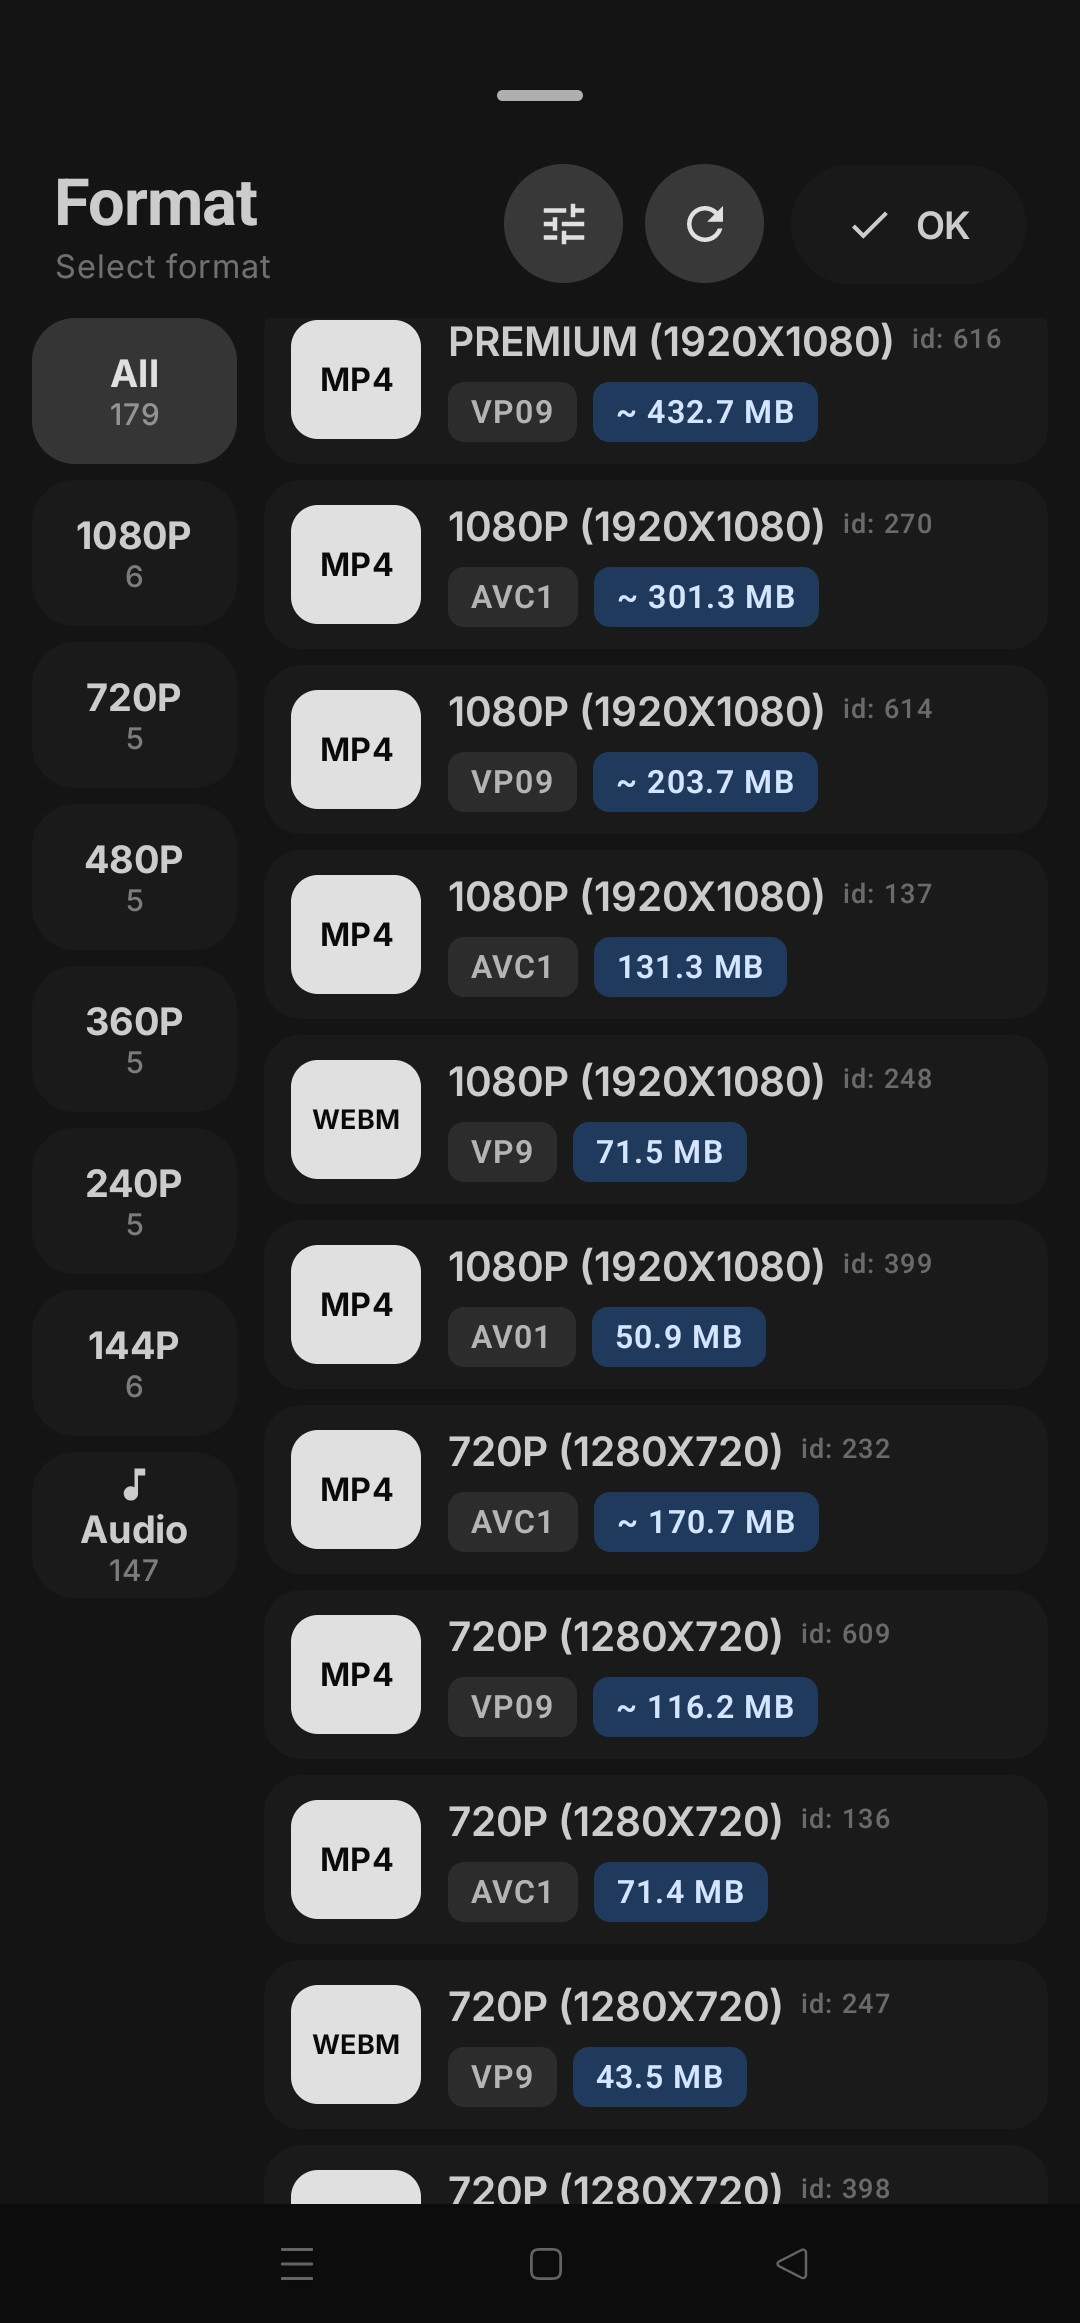
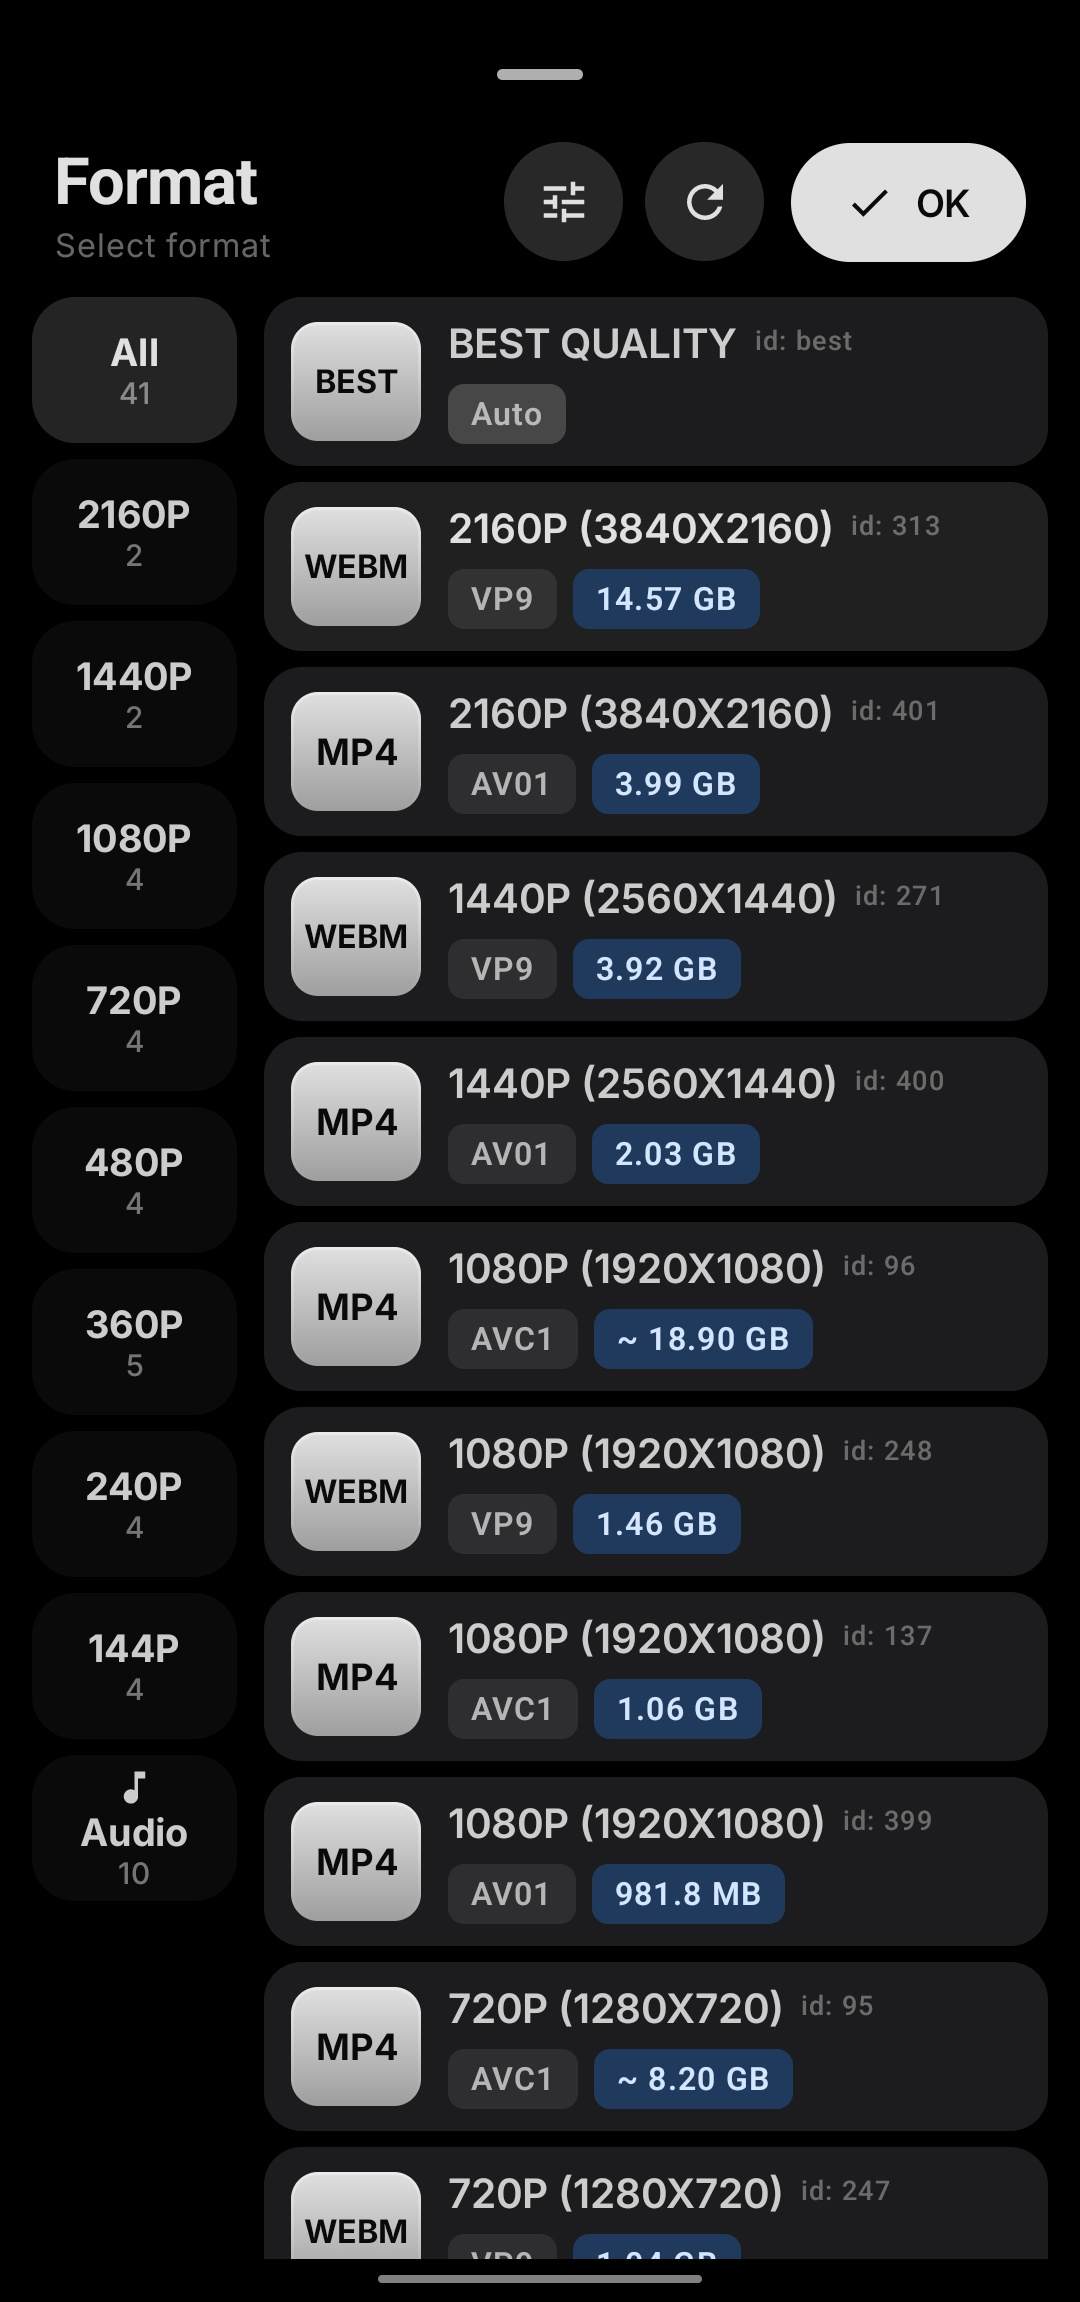
Readme Updated

diff --git a/pages/hazel-pages/src/index.html b/pages/hazel-pages/src/index.html
@@ -204,7 +204,7 @@
             <h3>Keeps up when sites change</h3>
             <p>Websites change all the time. Hazel can update the part that does the downloading straight from the app, so you don't have to wait for a new version.</p>
           </div>
-          <div class="device"><img src="assets/screens/12.jpg" alt="Updating the downloader" loading="lazy"></div>
+          <div class="device"><img src="assets/screens/11.jpg" alt="Software update in More" loading="lazy"></div>
         </div>
       </div>
     </div>
@@ -238,7 +238,7 @@
         <figure><div class="device"><img src="assets/screens/02.jpg" alt="" loading="lazy"></div><figcaption><b>Your library</b>Big, browsable cards</figcaption></figure>
         <figure><div class="device"><img src="assets/screens/03.jpg" alt="" loading="lazy"></div><figcaption><b>Make it yours</b>Glass, theme and accent</figcaption></figure>
         <figure><div class="device"><img src="assets/screens/08.jpg" alt="" loading="lazy"></div><figcaption><b>Recent searches</b>Pick up where you left off</figcaption></figure>
-        <figure><div class="device"><img src="assets/screens/12.jpg" alt="" loading="lazy"></div><figcaption><b>Stay up to date</b>Update in a tap</figcaption></figure>
+        <figure><div class="device"><img src="assets/screens/12.jpg" alt="" loading="lazy"></div><figcaption><b>Calm home</b>Glass with drifting stars</figcaption></figure>
         <figure><div class="device"><img src="assets/screens/10.jpg" alt="" loading="lazy"></div><figcaption><b>Your language</b>{{language_words_cap}} to choose from</figcaption></figure>
         <figure><div class="device"><img src="assets/screens/11.jpg" alt="" loading="lazy"></div><figcaption><b>Settings</b>All in one place, searchable</figcaption></figure>
       </div>
